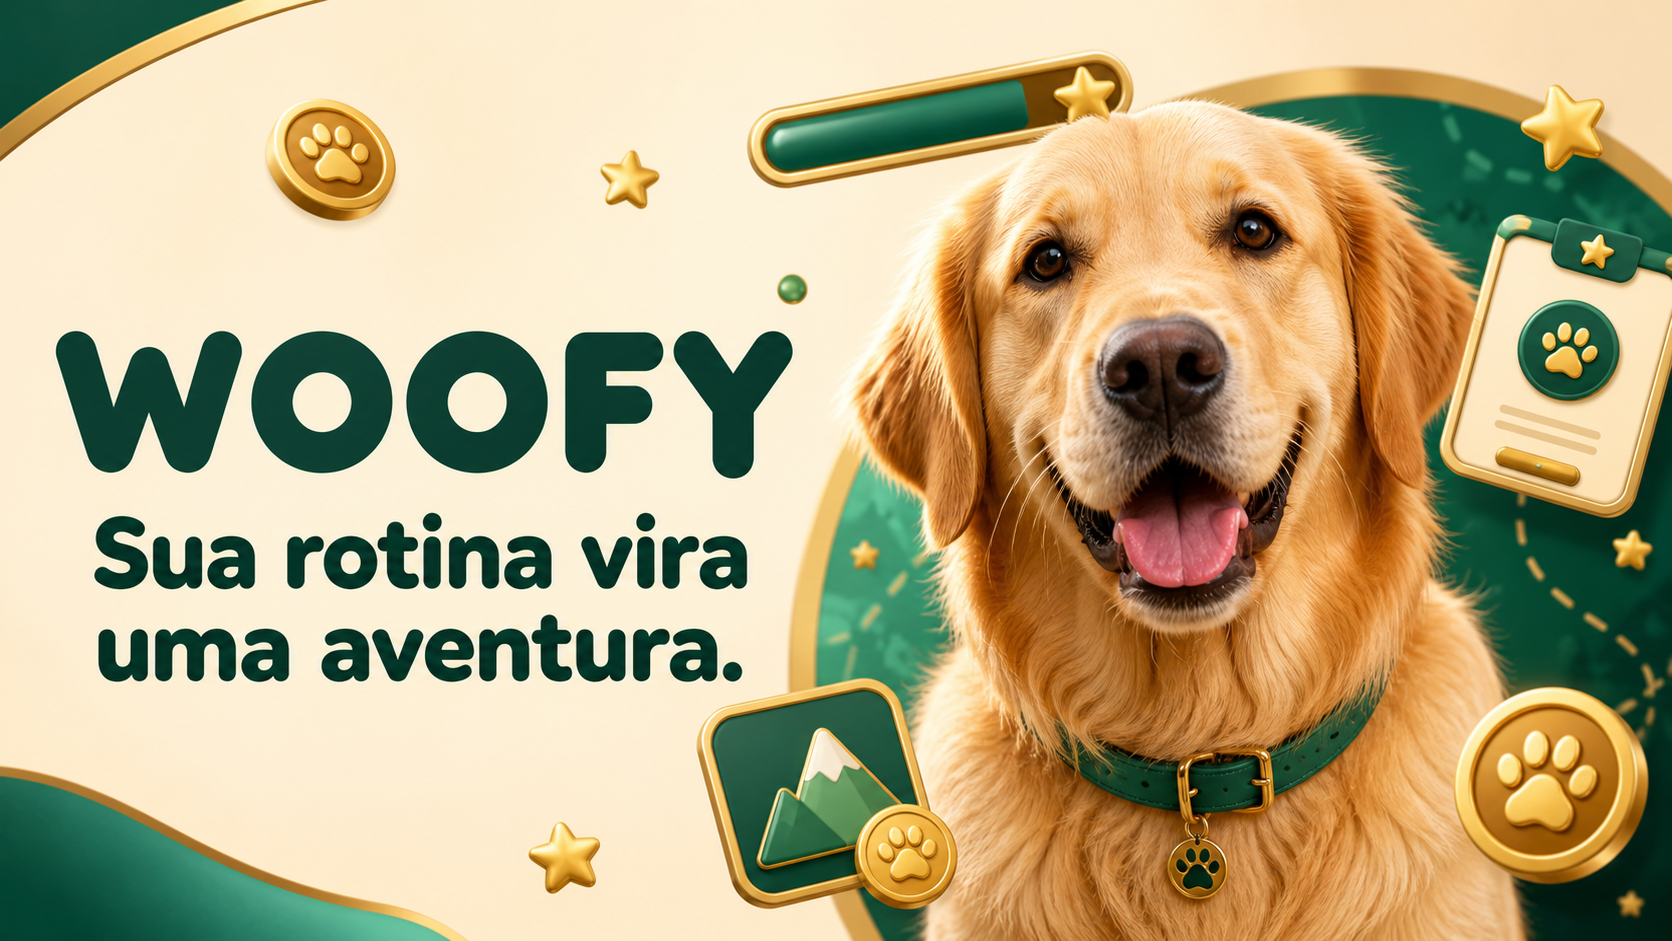
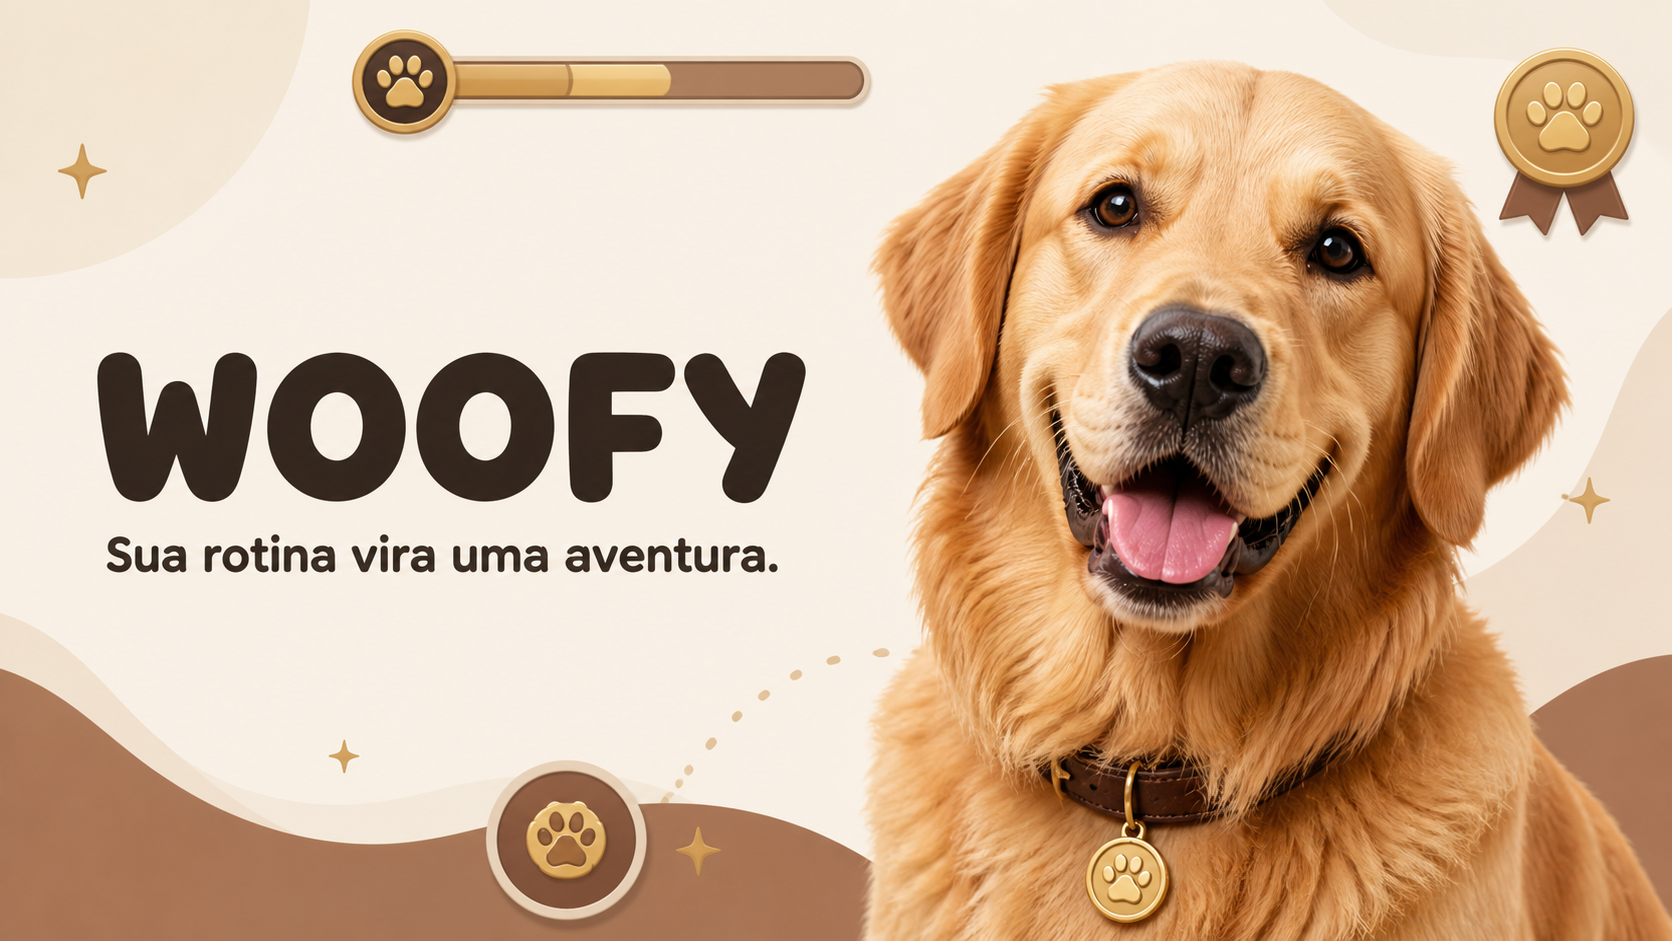
Ajusta pelagens e paleta natural do Woofy

diff --git a/frontend/src/index.css b/frontend/src/index.css
@@ -207,12 +207,12 @@ svg { flex: none; }
 
 /* Woofy visual refresh — rounded, gamified and energetic */
 :root {
-  --action: #55b83c;
-  --action-dark: #38982b;
-  --action-soft: #e8f7e3;
-  --blue: #36a9e1;
-  --purple: #8f73d6;
-  --card-edge: #dedfd9;
+  --action: #9a735c;
+  --action-dark: #654a3a;
+  --action-soft: #f0e4da;
+  --blue: #796e66;
+  --purple: #947b6c;
+  --card-edge: #ddd2c8;
 }
 
 body {
@@ -474,15 +474,15 @@ body h3,
 
 /* Game-first experience */
 :root {
-  --game-ink: #17261e;
-  --game-green: #3fa34d;
-  --game-green-dark: #267636;
-  --game-green-soft: #eaf7e9;
-  --game-gold: #f2b84b;
-  --game-gold-dark: #c98116;
-  --game-blue: #4a92e5;
-  --game-purple: #7967d8;
-  --game-coral: #ee705b;
+  --game-ink: #292420;
+  --game-green: #a9856a;
+  --game-green-dark: #684d3e;
+  --game-green-soft: #f1e6dd;
+  --game-gold: #d8ac72;
+  --game-gold-dark: #9d6e3f;
+  --game-blue: #7d7168;
+  --game-purple: #9a806e;
+  --game-coral: #bd806a;
 }
 
 .game-landing { min-height:100vh; background:#f6f7ef; color:var(--game-ink); overflow:hidden; }
@@ -563,26 +563,35 @@ body h3,
 .mascot { transform-origin:50% 90%; isolation:isolate; }
 .mascot-main-frame,.mascot-talk-idle { will-change:opacity,transform; }
 .mascot-talk-idle { opacity:1; }
-.mascot-idle,.mascot-normal,.mascot-happy { animation:dogBreathing 3.6s ease-in-out infinite; }
+.mascot-idle { animation:dogBreathing 3.6s ease-in-out infinite; }
+.mascot-normal { animation:dogLookAround 4.4s ease-in-out infinite; }
+.mascot-happy { animation:dogHappy 1.9s ease-in-out infinite; }
 .mascot-listening { animation:dogListening 2.8s ease-in-out infinite; }
-.mascot-talking { animation:dogTalkBob .62s ease-in-out infinite; }
-.mascot-talking .mascot-main-frame { animation:dogTalkFrame .72s steps(1,end) infinite; }
+.mascot-talking { animation:dogTalkBob .54s ease-in-out infinite; }
+.mascot-talking .mascot-main-frame { animation:dogTalkFrame .54s steps(1,end) infinite; }
 .mascot-studying { animation:studyFocus 4s ease-in-out infinite; }
+.mascot-sleeping { animation:dogSleeping 4.8s ease-in-out infinite; }
 .mascot-celebrating { animation:dogCelebrate 1.15s ease-in-out infinite; }
 @keyframes dogBreathing{0%,100%{transform:translateY(0) scale(1)}50%{transform:translateY(-3px) scale(1.008)}}
-@keyframes dogListening{0%,100%{transform:rotate(0) translateY(0)}50%{transform:rotate(-1.8deg) translateY(-3px)}}
-@keyframes dogTalkBob{0%,100%{transform:translateY(0)}50%{transform:translateY(-5px) rotate(.5deg)}}
-@keyframes dogTalkFrame{0%,45%{opacity:1}46%,100%{opacity:0}}
+@keyframes dogLookAround{0%,35%,100%{transform:rotate(0) translateY(0)}45%,62%{transform:rotate(1.5deg) translateY(-2px)}}
+@keyframes dogHappy{0%,100%{transform:translateY(0) rotate(-.35deg)}50%{transform:translateY(-6px) rotate(.65deg)}}
+@keyframes dogListening{0%,100%{transform:rotate(0) translateY(0)}35%,65%{transform:rotate(-2.7deg) translateY(-4px) scale(1.01)}}
+@keyframes dogTalkBob{0%,100%{transform:translateY(0) rotate(-.35deg)}50%{transform:translateY(-6px) rotate(.65deg)}}
+@keyframes dogTalkFrame{0%,52%{opacity:1}53%,100%{opacity:0}}
 @keyframes studyFocus{0%,100%{transform:translateY(0)}50%{transform:translateY(2px) scale(.995)}}
+@keyframes dogSleeping{0%,100%{transform:translateY(0) scale(1);filter:drop-shadow(0 14px 15px rgba(75,50,35,.12))}50%{transform:translateY(3px) scale(.985);filter:drop-shadow(0 8px 9px rgba(75,50,35,.08))}}
 @keyframes dogCelebrate{0%,100%{transform:translateY(0) rotate(-.5deg)}45%{transform:translateY(-10px) rotate(1.5deg)}}
 .mascot-sound-waves { position:absolute; z-index:8; right:5%; top:17%; width:22%; height:27%; display:flex; align-items:center; gap:4px; }
-.mascot-sound-waves i { width:3px; border-radius:99px; background:var(--game-green); animation:soundWave .7s ease-in-out infinite; }.mascot-sound-waves i:nth-child(1){height:25%}.mascot-sound-waves i:nth-child(2){height:55%;animation-delay:.12s}.mascot-sound-waves i:nth-child(3){height:85%;animation-delay:.24s}
+.mascot-sound-waves i { width:3px; border-radius:99px; background:#5f4638; animation:soundWave .62s ease-in-out infinite; }.mascot-sound-waves i:nth-child(1){height:25%}.mascot-sound-waves i:nth-child(2){height:55%;animation-delay:.12s}.mascot-sound-waves i:nth-child(3){height:85%;animation-delay:.24s}
 @keyframes soundWave{50%{transform:scaleY(.45);opacity:.45}}
-.mascot-cream>img { filter:brightness(1.055) saturate(.82) contrast(1.01); }
-.mascot-golden>img { filter:saturate(.98) contrast(1.025); }
-.mascot-honey>img { filter:sepia(.045) saturate(1.06) brightness(.985) contrast(1.02); }
-.mascot-caramel>img { filter:sepia(.11) saturate(1.1) brightness(.93) contrast(1.03); }
-.mascot-red>img { filter:sepia(.17) saturate(1.14) hue-rotate(-7deg) brightness(.9) contrast(1.04); }
+.mascot-cream>img { filter:sepia(.08) saturate(.58) brightness(1.16) contrast(.96); }
+.mascot-golden>img { filter:sepia(.04) saturate(1.02) brightness(1.01) contrast(1.025); }
+.mascot-honey>img { filter:sepia(.22) saturate(1.28) brightness(.93) contrast(1.04); }
+.mascot-caramel>img { filter:sepia(.42) saturate(1.48) hue-rotate(-7deg) brightness(.79) contrast(1.08); }
+.mascot-red>img { filter:sepia(.58) saturate(1.72) hue-rotate(-13deg) brightness(.68) contrast(1.12); }
+.mascot-happy-spark { position:absolute; z-index:9; top:8%; right:8%; color:#8f6236; font-size:11%; animation:happySpark 1.2s ease-in-out infinite; text-shadow:0 2px 0 #fff; }
+.mascot-happy-spark i { position:absolute; width:7px; height:7px; border-radius:50%; background:#d9ad72; left:-12px; top:12px; }
+@keyframes happySpark{0%,100%{transform:scale(.75) rotate(-8deg);opacity:.45}50%{transform:scale(1.15) rotate(8deg);opacity:1}}
 .photo-confetti i { animation:confettiPop 1.15s ease-in-out infinite alternate; }.photo-confetti i:nth-child(2n){animation-delay:.25s}.photo-confetti i:nth-child(3n){animation-delay:.45s}
 @keyframes confettiPop{from{transform:translateY(5px) rotate(-8deg);opacity:.45}to{transform:translateY(-4px) rotate(18deg);opacity:1}}
 
@@ -616,4 +625,99 @@ body h3,
 }
 @media (max-width:650px){
   .game-topbar{width:calc(100% - 28px);min-height:70px}.season-chip,.game-login-link{display:none}.game-topbar .brand-word{font-size:24px}.game-topbar .button{padding:0 12px;font-size:11px}.game-hero{width:calc(100% - 24px);margin-top:7px;padding:33px 18px;border-radius:27px}.game-hero h1{font-size:42px;letter-spacing:-2.4px}.game-hero-copy>p{font-size:14px}.game-hero-actions{flex-direction:column}.game-hero-actions .button{width:100%}.game-social-proof{align-items:flex-start;flex-direction:column;gap:8px}.companion-arena{min-height:445px;border-radius:25px}.companion-arena .hero-real-doug{width:330px;height:330px;margin-bottom:52px}.arena-speech{top:16px;right:12px;width:190px}.floating-loot{min-width:96px}.loot-streak{right:6px;bottom:135px}.loot-paws{left:6px;bottom:125px}.arena-xp{left:10px;right:10px;bottom:10px}.quest-board,.interest-playground,.game-cta{width:calc(100% - 24px)}.quest-board-heading{align-items:flex-start;flex-direction:column}.quest-board h2,.interest-playground h2{font-size:29px}.quest-total{width:100%}.quest-card{grid-template-columns:38px 1fr}.quest-card>b{grid-column:2;justify-self:start}.interest-playground{padding:30px 18px;border-radius:25px}.topic-chat-card{padding:13px}.topic-user-message{width:92%}.game-cta{padding:35px 20px 210px;text-align:center;flex-direction:column}.game-cta-dog{left:50%;transform:translateX(-50%);bottom:-20px}.game-cta>.button{width:100%}.interest-options{grid-template-columns:1fr 1fr}.interest-options button{grid-template-columns:34px 1fr 15px;padding:9px}.custom-interest{flex-direction:column}.custom-interest button{min-height:42px;justify-content:center}.dashboard-game-strip{grid-template-columns:1fr}.dashboard-game-strip .level-card{grid-column:auto}.welcome-copy h1{font-size:30px}.dashboard-welcome{min-height:430px}.chat-welcome{padding-inline:10px}
+}
+
+/* Natural Golden palette: pastel browns, cream, black and white */
+:root {
+  --ink:#2b2521;
+  --muted:#746a62;
+  --cream:#fbf5ed;
+  --paper:#fff;
+  --line:#e5d9ce;
+  --gold:#d8ac72;
+  --gold-dark:#9d6e3f;
+  --terracotta:#a9785d;
+  --terracotta-dark:#704d3b;
+  --green:#765847;
+  --green-dark:#332b27;
+  --mint:#eee4dc;
+  --peach:#ead7c9;
+  --lavender:#e8dfd9;
+  --sky:#eee9e4;
+}
+
+body,.app-shell,.chat-page-v2 { background:#f8f3ed; color:var(--ink); }
+.button-primary,.custom-interest button,.composer-send { background:#8f6953; border-color:#8f6953; border-bottom-color:#5d4335; color:#fff; }
+.button-primary:hover { background:#7d5b49; }
+.button-dark { background:#2f2925; border-bottom-color:#171411; }
+.button-soft { background:#efe3d9; color:#684d3e; border-bottom-color:#dbc8b9; }
+.brand-word,.page-kicker,.chat-welcome>span,.preferences-heading span { color:#5d4335; }
+.app-sidebar,.chat-page-v2 .chat-sidebar { background:#fcfaf7; border-color:#e2d8cf; }
+.app-nav a:hover,.app-nav a.active,.conversation-modes button.active,.preference-mode-grid button.active { background:#efe3da; color:#5d4335; border-color:#dbc8b8; border-bottom-color:#c9b09d; }
+.sidebar-pet-card,.sidebar-pet-visual,.focus-card { background:#f1e6dd; border-color:#ddcdbf; }
+.app-header { background:rgba(255,255,255,.94); border-color:#e5dbd1; }
+
+.game-landing { background:#f7f0e8; }
+.season-chip { background:#fff; border-color:#decdbd; color:#684d3e; }
+.game-login-link,.game-social-proof,.game-hero-copy>p { color:#6d625a; }
+.game-hero { border-color:#d9c9bb; border-bottom-color:#c7b19f; background:linear-gradient(135deg,#fff 0%,#faf3ea 48%,#ead9cc 100%); }
+.game-hero:before { background:radial-gradient(circle,#e3bd87 0%,rgba(227,189,135,0) 68%); }
+.game-kicker,.game-hero h1 em { color:#654a3a; }
+.game-social-proof svg { color:#9a7359; }
+.companion-arena { border-color:#cdb7a5; border-bottom-color:#b89982; background:linear-gradient(155deg,#f4e9df,#dec6b4); }
+.arena-grid { background-image:linear-gradient(rgba(92,67,52,.13) 1px,transparent 1px),linear-gradient(90deg,rgba(92,67,52,.13) 1px,transparent 1px); }
+.companion-arena .hero-real-doug { background:#f7eee6; box-shadow:0 28px 50px rgba(75,50,35,.17); }
+.arena-level,.quest-total,.dashboard-game-strip .level-card { border-color:#d5b888; border-bottom-color:#bd9560; background:#f8ead2; color:#79542f; }
+.arena-speech,.arena-xp,.quest-card,.interest-playground,.topic-chat-card { border-color:#ded3c9; border-bottom-color:#cbbdb1; background:#fff; }
+.arena-speech { box-shadow:0 12px 28px rgba(69,47,34,.1); }
+.arena-speech>i,.topic-chat-header>i { background:#9b765f; }
+.arena-xp>div { background:#eadfd6; }
+.arena-xp>div i,.sidebar-pet-card>div:nth-child(2)>i b { background:linear-gradient(90deg,#8e6751,#d1a16c); }
+.loot-paws,.quest-card>b,.topic-reward { background:#f6e5c8; color:#81582f; }
+.loot-streak { background:#ecd8cb; color:#825643; }
+.quest-card:hover,.quest-card.is-complete { border-color:#cdb5a2; background:#f6ede6; }
+.is-complete .quest-check { background:#735442; border-color:#4e392e; }
+.topic-selector button.active,.topic-user-message,.interest-shortcuts button:hover { background:#efe3da; border-color:#d5c0b0; color:#5d4335; }
+.topic-user-message svg,.interest-shortcuts svg { color:#76533f; }
+.topic-chat-card { background:#faf7f3; }
+.game-cta { border-color:#2f2925; border-bottom-color:#171411; background:linear-gradient(135deg,#6e5141,#302a26); }
+.game-cta span,.game-cta p { color:#f0dfd1; }
+.game-cta-dog .mascot { background:#f4e9df; }
+
+.dashboard-welcome { background:linear-gradient(135deg,#af866d 0%,#8f6953 58%,#684c3c 100%); border-color:#765343; border-bottom-color:#4d382e; }
+.dashboard-game-strip>a { background:#f1e6dd; border-color:#d9c6b6; border-bottom-color:#c6aa95; }
+.dashboard-game-strip>a>svg,.sidebar-pet-card a svg { color:#684d3e; }
+.chat-page-v2 .chat-history-item.active,.chat-page-v2 .chat-message-row.user .chat-message-bubble { background:#eee2d9; border-color:#d8c4b4; border-bottom-color:#c5a993; }
+.chat-composer-v2 .chat-composer:focus-within { border-color:#b9967d; border-bottom-color:#987057; }
+.typing-indicator i { background:#9b7963; }
+.attached-file,.preference-interests span { background:#efe4dc; border-color:#dac6b6; color:#684d3e; }
+
+.coat-preview { background:linear-gradient(145deg,#f8f2ec,#eadfd6)!important; }
+.coat-options>button { border-color:#dfd3c8; background:#fff; }
+.coat-options>button:hover,.coat-options>button.selected { border-color:#8f6953; box-shadow:0 0 0 3px rgba(143,105,83,.12); }
+.selected-check { background:#684d3e; }
+.interest-options button { border-color:#dfd4ca; border-bottom-color:#cfc0b3; }
+.interest-options button.selected { border-color:#b7947b; border-bottom-color:#916d55; background:#f2e7de; }
+.interest-options button>span,
+.interest-options .interest-purple>span,
+.interest-options .interest-blue>span,
+.interest-options .interest-sky>span,
+.interest-options .interest-rose>span,
+.interest-options .interest-pink>span,
+.interest-options .interest-amber>span,
+.interest-options .interest-orange>span,
+.interest-options .interest-gold>span,
+.interest-options .interest-mint>span,
+.interest-options .interest-lime>span { background:#eee2d8; color:#6d5040; }
+.interest-options button:nth-child(3n+2)>span { background:#ead9c9; color:#8c603e; }
+.interest-options button:nth-child(3n)>span { background:#e3d5cc; color:#3a312c; }
+.interest-options button>svg { color:#5d4335; }
+.interest-selection-status i.active { background:#8f6953; }
+.welcome-glow,.name-pet,.personality-message { background:#eee1d7; }
+
+.photo-confetti i { background:#d8ac72; }
+.photo-confetti i:nth-child(2){background:#8f6953}.photo-confetti i:nth-child(3){background:#2f2925}.photo-confetti i:nth-child(4){background:#fff}.photo-confetti i:nth-child(5){background:#b8896f}
+
+@media (prefers-reduced-motion:reduce){
+  .mascot-happy-spark{animation:none!important}
 }

diff --git a/frontend/src/components/Mascot.tsx b/frontend/src/components/Mascot.tsx
@@ -15,6 +15,13 @@ export function Mascot({
   size = 'lg',
   className = '',
 }: MascotProps) {
+  const coatLabel: Record<CoatType, string> = {
+    cream: 'creme claro',
+    golden: 'dourado natural',
+    honey: 'mel',
+    caramel: 'caramelo',
+    red: 'ruivo acobreado',
+  }
   const isTalking = state === 'talking'
   const imageName = state === 'studying'
     ? 'doug-real-studying.png'
@@ -27,14 +34,17 @@ export function Mascot({
   return (
     <div
       className={`mascot mascot-${coat} mascot-${state} mascot-${size} accessory-${accessory} ${className}`}
+      data-coat={coat}
+      data-state={state}
       role="img"
-      aria-label={`Golden Retriever ${state === 'studying' ? 'estudando' : 'do Woofy'}`}
+      aria-label={`Golden Retriever de pelagem ${coatLabel[coat]} ${state === 'studying' ? 'estudando' : 'do Woofy'}`}
     >
       {isTalking && <img className="mascot-talk-idle" src={idleImage} alt="" draggable={false} />}
       <img className="mascot-main-frame" src={image} alt="" draggable={false} />
       {(state === 'talking' || state === 'listening') && (
         <span className="mascot-sound-waves" aria-hidden="true"><i /><i /><i /></span>
       )}
+      {state === 'happy' && <span className="mascot-happy-spark" aria-hidden="true"><i />✦</span>}
       {state === 'sleeping' && <span className="mascot-state-symbol mascot-zzz">z z</span>}
       {state === 'celebrating' && (
         <span className="photo-confetti" aria-hidden="true"><i /><i /><i /><i /><i /></span>

diff --git a/frontend/src/pages/OnboardingPage.tsx b/frontend/src/pages/OnboardingPage.tsx
@@ -128,7 +128,7 @@ export function OnboardingPage() {
               {coatOptions.map((option) => (
                 <button type="button" key={option.id} className={coat === option.id ? 'selected' : ''} onClick={() => setCoat(option.id)}>
                   {coat === option.id && <span className="selected-check"><Check /></span>}
-                  <span className="coat-preview" style={{ background: `${option.color}36` }}><Mascot coat={option.id} size="md" accessory="none" /></span>
+                  <span className="coat-preview"><Mascot coat={option.id} size="md" state="happy" accessory="none" /></span>
                   <strong>{option.label}</strong><small>{option.id === 'cream' ? 'Suave e luminoso' : option.id === 'golden' ? 'Clássico e radiante' : option.id === 'honey' ? 'Quente e acolhedor' : option.id === 'caramel' ? 'Marcante e doce' : 'Vibrante e especial'}</small>
                 </button>
               ))}

diff --git a/frontend/src/data/demo.ts b/frontend/src/data/demo.ts
@@ -56,11 +56,11 @@ export const initialTransactions: PawTransaction[] = [
 ]
 
 export const coatOptions = [
-  { id: 'cream', label: 'Golden Creme', color: '#F4DEB4' },
-  { id: 'golden', label: 'Golden Dourado', color: '#E8B64D' },
-  { id: 'honey', label: 'Golden Mel', color: '#CF8A35' },
-  { id: 'caramel', label: 'Golden Caramelo', color: '#AA642F' },
-  { id: 'red', label: 'Golden Ruivo', color: '#934623' },
+  { id: 'cream', label: 'Creme claro', color: '#EAD9C4' },
+  { id: 'golden', label: 'Dourado natural', color: '#D8AC72' },
+  { id: 'honey', label: 'Mel suave', color: '#C28B53' },
+  { id: 'caramel', label: 'Caramelo', color: '#9A6648' },
+  { id: 'red', label: 'Ruivo acobreado', color: '#7E4C37' },
 ] as const
 
 export const objectives = [
